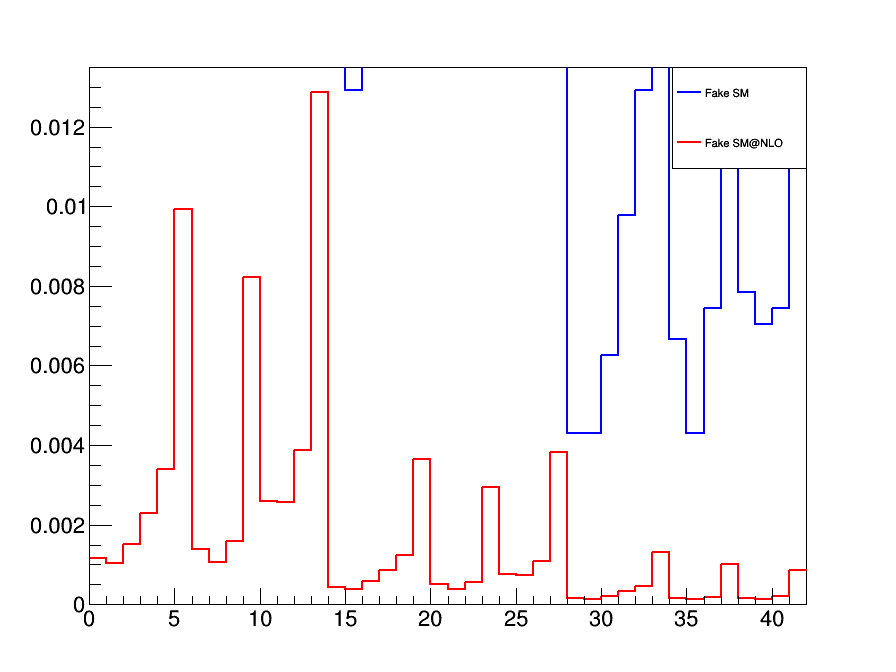
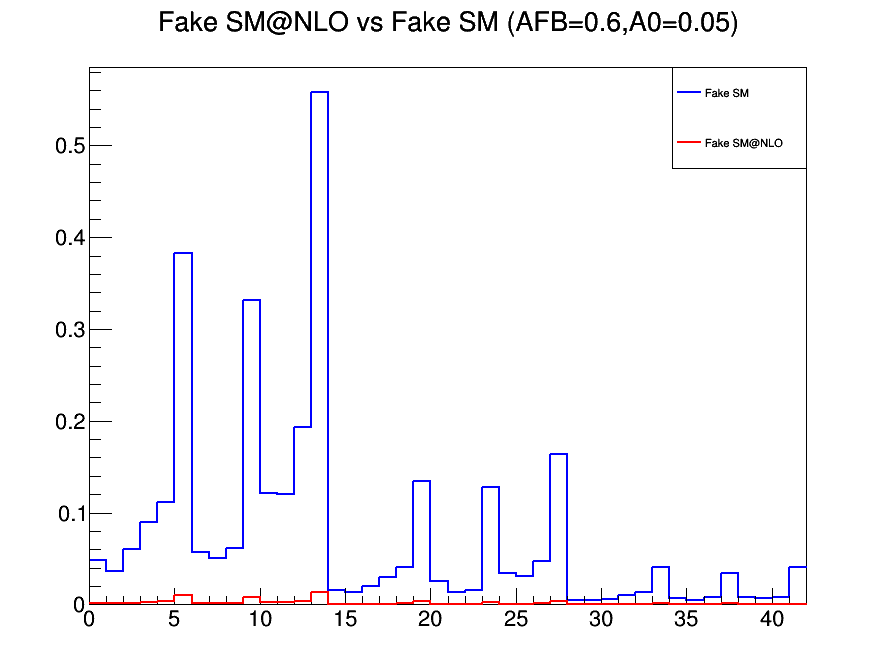
sm vs nlo plots

diff --git a/analyze/combine/LQ_make_gen_templates.C b/analyze/combine/LQ_make_gen_templates.C
@@ -284,9 +284,9 @@ void LQ_make_gen_templates(){
         h1_data_SM->SetLineWidth(2);
         h1_total_SM_NLO->SetLineWidth(2); 
         h1_data_SM->SetTitle("Fake SM@NLO vs Fake SM (AFB=0.6,A0=0.05)");
-        h1_total_SM_NLO->Draw("hist");
-	h1_data_SM->Draw("hist same");
-        //h1_total_SM_NLO->Draw("hist same ");
+        //h1_total_SM_NLO->Draw("hist");
+	h1_data_SM->Draw("hist ");
+        h1_total_SM_NLO->Draw("hist same ");
         TLegend *leg4 = new TLegend(0.75, 0.75, 0.9, 0.9);
         //leg2->AddEntry(h1_LQpure_u, "LQ_ue templates", "l");
         leg4->AddEntry(h1_data_SM, "Fake SM ", "l");
